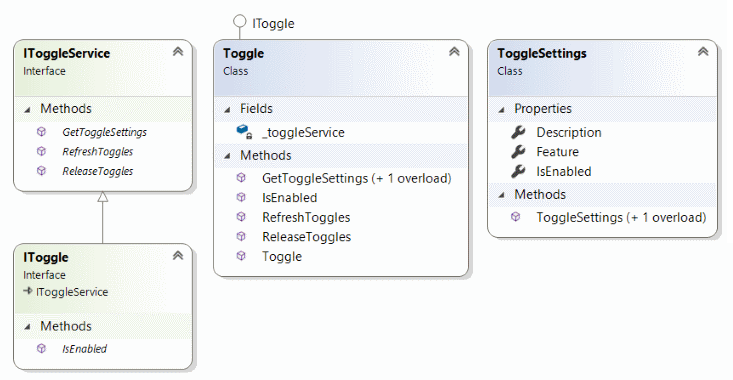
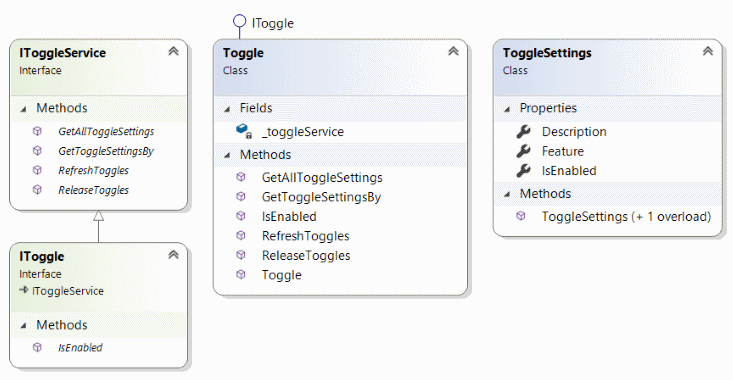
Library updated

Changed region(s): [[0.0, 0.0289, 1.0, 0.9842], [0.3001, 0.4921, 0.3302, 0.5211], [0.0, 0.4632, 0.03, 0.4921]]

diff --git a/src/DotNetCore.FeatureFlags/Toggle.cs b/src/DotNetCore.FeatureFlags/Toggle.cs
@@ -12,14 +12,15 @@ namespace DotNetCore.FeatureFlags
             _toggleService = toggleService;
         }
 
-        public IList<ToggleSettings> GetToggleSettings()
+        public ToggleSettings GetToggleSettingsBy(string feature)
         {
-            return _toggleService.GetToggleSettings();
+            return _toggleService.GetToggleSettingsBy(feature);
         }
 
         public bool IsEnabled(string feature)
         {
-            return GetToggleSettings(feature).IsEnabled;
+            var toggleSettings = GetToggleSettingsBy(feature);
+            return toggleSettings == null ? false : toggleSettings.IsEnabled;            
         }
 
         public void RefreshToggles()
@@ -32,10 +33,9 @@ namespace DotNetCore.FeatureFlags
             _toggleService.ReleaseToggles();
         }
 
-        private ToggleSettings GetToggleSettings(string feature)
+        public IList<ToggleSettings> GetAllToggleSettings()
         {
-            var toggleSettings = _toggleService.GetToggleSettings().Where(q => q.Feature == feature).SingleOrDefault();
-            return toggleSettings ?? new ToggleSettings(feature);
+            return _toggleService.GetAllToggleSettings().ToList();
         }
     }
 }

diff --git a/src/Sample/MyToggles/MyToggleService.cs b/src/Sample/MyToggles/MyToggleService.cs
@@ -1,6 +1,7 @@
-using FeatureFlags;
+using DotNetCore.FeatureFlags;
 using System;
 using System.Collections.Generic;
+using System.Linq;
 
 namespace MyToggles
 {
@@ -18,7 +19,7 @@ namespace MyToggles
             _toggleSettings = null;
         }
 
-        public IList<ToggleSettings> GetToggleSettings()
+        public IList<ToggleSettings> GetAllToggleSettings()
         {
             return _toggleSettings;
         }
@@ -35,6 +36,11 @@ namespace MyToggles
         public void ReleaseToggles()
         {
             _toggleSettings = new List<ToggleSettings>();
+        }
+
+        public ToggleSettings GetToggleSettingsBy(string feature)
+        {
+            return _toggleSettings.Where(q => q.Feature == feature).SingleOrDefault();
         }
     }
 }

diff --git a/src/Sample/ConsoleToggleApp/ToggleDemo.cs b/src/Sample/ConsoleToggleApp/ToggleDemo.cs
@@ -1,4 +1,4 @@
-using FeatureFlags;
+using DotNetCore.FeatureFlags;
 using System;
 
 namespace ConsoleToggleApp
@@ -12,7 +12,7 @@ namespace ConsoleToggleApp
 
             // Show the Toggles loaded
             Console.ForegroundColor = ConsoleColor.Green;
-            var toggleSettings = toggle.GetToggleSettings();
+            var toggleSettings = toggle.GetAllToggleSettings();
             foreach (var settings in toggleSettings)
             {
                 Console.WriteLine($"\t{settings.Feature} - {settings.Description} - {settings.IsEnabled}");

diff --git a/src/DotNetCore.FeatureFlags/IToggleService.cs b/src/DotNetCore.FeatureFlags/IToggleService.cs
@@ -4,7 +4,8 @@ namespace DotNetCore.FeatureFlags
 {
     public interface IToggleService
     {
-        IList<ToggleSettings> GetToggleSettings();
+        IList<ToggleSettings> GetAllToggleSettings();
+        ToggleSettings GetToggleSettingsBy(string feature);
         void RefreshToggles();
         void ReleaseToggles();
     }

diff --git a/src/Sample/ConsoleToggleApp/Program.cs b/src/Sample/ConsoleToggleApp/Program.cs
@@ -1,4 +1,4 @@
-using FeatureFlags;
+using DotNetCore.FeatureFlags;
 using Microsoft.Extensions.DependencyInjection;
 using MyToggles;
 
